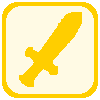
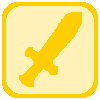
moving background + new art

diff --git a/ButtonSequence.py b/ButtonSequence.py
@@ -7,10 +7,12 @@ from Player import Player
 from Pebble import Pebble
 from Enemy import Enemy
 from FinishLine import FinishLine
+from Background import Background
 
 pygame.init()
-canvas = pygame.display.set_mode((1360, 660))
+canvas = pygame.display.set_mode((1360, 760))
 pygame.display.set_caption("Button Sequence")
+
 main = pygame.image.load("assets/images/Homescreen.png")
 upimg = pygame.image.load("assets/images/Up.png")
 downimg = pygame.image.load("assets/images/Down.png")
@@ -35,6 +37,9 @@ absolutelevelworld = [10, 2]
 #Sprites array
 lvlsprites = []
 player = Player(lvlsprites)
+
+#Background
+background = Background("assets/images/bg1.png", "assets/images/ground1.png")
 
 #Finsih line
 finaldistance = FinishLine(player, 0)
@@ -130,7 +135,13 @@ while True:
             level -= (world - 1) * 10
             scene = 2
             
+    #Game screen        
     if scene == 2:
+        background.move(5)
+        canvas.blit(background.img, (background.x1, 0))
+        canvas.blit(background.img, (background.x2, 0))
+        canvas.blit(background.grnd, (0, 660))
+
         canvas.blit(player.img, (200, player.y))
         player.move()
         canvas.blit(finaldistance.img, (finaldistance.x, 0))

diff --git a/Background.py b/Background.py
@@ -1,0 +1,20 @@
+import pygame
+
+class Background:
+    def __init__(self, img, grnd):
+        self.img =  pygame.image.load(img)
+        self.img2 = pygame.image.load(img)
+        self.grnd = pygame.image.load(grnd)
+        self.x1 = 0
+        self.x2 = self.img.get_width()
+
+    def move(self, amt):
+        self.x1 -= amt
+        self.x2 -= amt
+
+        if self.x1 + self.img.get_width() <= 0:
+            self.x1 = self.img.get_width()
+
+        if self.x2 + self.img.get_width() <= 0:
+            self.x2 = self.img.get_width()
+        
